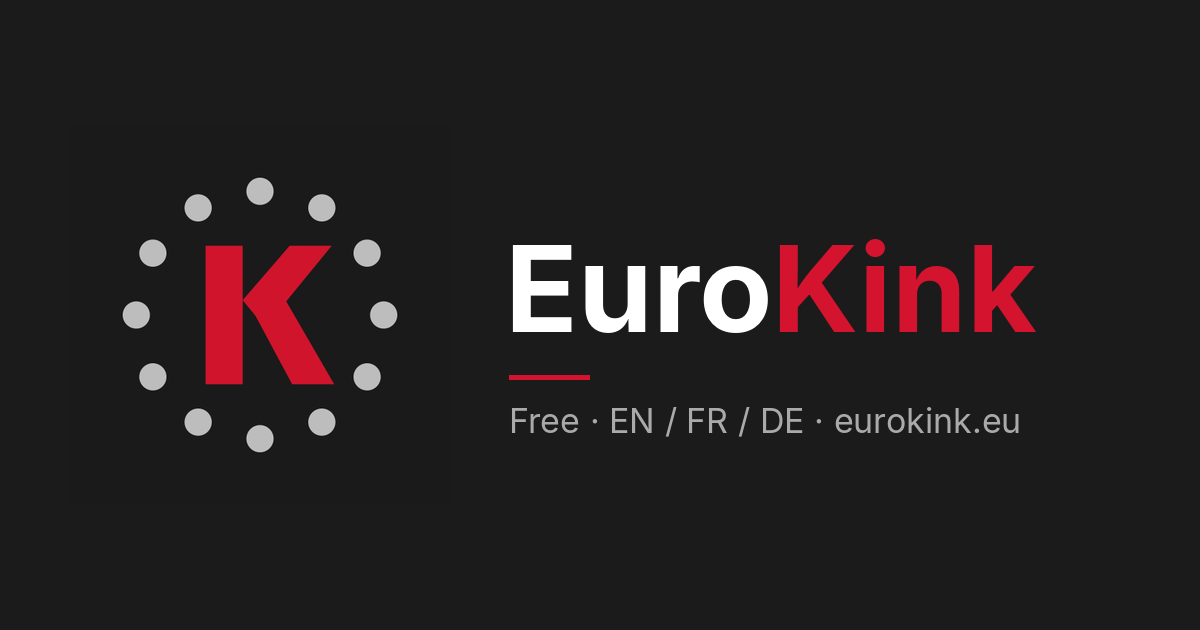
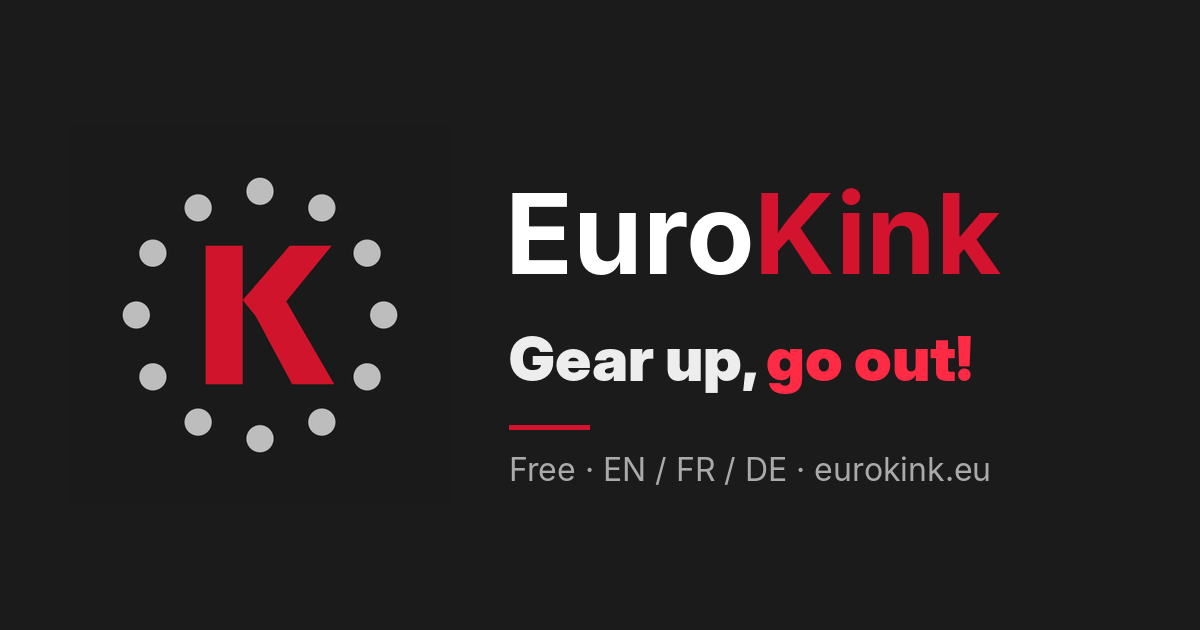
v0.50.2 : slogan « Gear up, go out! » (accueil, aperçus, manifeste, README)
Claude-Session: https://claude.ai/code/session_018Ux13vUQ72CsnVpyvbnhZ3

Changed region(s): [[0.4008, 0.3016, 0.8633, 0.6937], [0.4008, 0.7238, 0.6475, 0.7841], [0.6783, 0.7238, 0.8325, 0.7841]]

diff --git a/index.html b/index.html
@@ -12,17 +12,17 @@
   <meta name="mobile-web-app-capable" content="yes">
   <meta name="apple-mobile-web-app-status-bar-style" content="black-translucent">
   <meta name="apple-mobile-web-app-title" content="EuroKink">
-  <meta name="description" content="Toutes les soirées fetish en France et en Europe.">
+  <meta name="description" content="Gear up, go out! Toutes les soirées fetish en France et en Europe.">
   <title>EuroKink</title>
   <meta property="og:type" content="website">
   <meta property="og:site_name" content="EuroKink">
   <meta property="og:title" content="EuroKink">
-  <meta property="og:description" content="Events, map and community across Europe. Free app in English, French and German.">
+  <meta property="og:description" content="Gear up, go out! Events, map and community across Europe. Free app in English, French and German.">
   <meta property="og:url" content="https://eurokink.eu/">
   <meta property="og:image" content="https://eurokink.eu/icons/og-image.png">
   <meta property="og:image:width" content="1200">
   <meta property="og:image:height" content="630">
-  <meta property="og:image:alt" content="EuroKink">
+  <meta property="og:image:alt" content="EuroKink · Gear up, go out!">
   <meta name="twitter:card" content="summary_large_image">
   <link rel="manifest" href="manifest.webmanifest">
   <link rel="icon" href="icons/favicon.svg" type="image/svg+xml">
@@ -30,13 +30,13 @@
   <link rel="apple-touch-icon" href="icons/apple-touch-icon.png">
   <link rel="preload" href="fonts/Inter-Regular.woff" as="font" type="font/woff" crossorigin>
   <link rel="preload" href="fonts/InterDisplay-Black.woff" as="font" type="font/woff" crossorigin>
-  <link rel="stylesheet" href="css/styles.css?v=0.50.1">
+  <link rel="stylesheet" href="css/styles.css?v=0.50.2">
 </head>
 <body>
   <main id="view" aria-live="polite"></main>
   <nav id="nav" aria-label="Navigation principale" hidden></nav>
   <div id="toast" role="status" aria-live="polite"></div>
   <noscript><p style="padding:24px">EuroKink a besoin de JavaScript pour fonctionner.</p></noscript>
-  <script type="module" src="js/app.js?v=0.50.1"></script>
+  <script type="module" src="js/app.js?v=0.50.2"></script>
 </body>
 </html>

diff --git a/js/app.js b/js/app.js
@@ -7,7 +7,7 @@ import { mountGame } from './game.js';
 import { mountMemory } from './memory.js';
 import { LANG, LOCALE, LANGS, setLang, startI18n, t } from './i18n.js';
 
-const VERSION = '0.50.1';
+const VERSION = '0.50.2';
 const BRAND = 'EuroKink™';   // passer à ® une fois la marque déposée (INPI / EUIPO)
 const COPYRIGHT_YEAR = 2026;
 const STORE_KEY = 'ek.state.v1';
@@ -237,6 +237,7 @@ const empty = (msg) => `<div class="empty">${msg}</div>`;
 function viewWelcome() {
   return `<section class="gate">
     <div class="gate-logo">${LOGO_MARK}${WORDMARK}</div>
+    <p class="gate-slogan" data-no-i18n>Gear up, <span>go out!</span></p>
     <p class="gate-tag">Toutes les soirées fetish, partout en Europe.</p>
     ${inviteBanner()}
     <div class="card gate-card">

diff --git a/sw.js b/sw.js
@@ -1,5 +1,5 @@
 // EuroKink — service worker : appli disponible hors ligne, mises à jour récupérées en priorité
-const CACHE = 'eurokink-v0.50.1';
+const CACHE = 'eurokink-v0.50.2';
 const FILES = [
   './', './index.html', './manifest.webmanifest', './css/styles.css', './js/app.js', './js/data.js', './js/legal.js', './js/map.js', './js/game.js', './js/memory.js', './js/europe.js', './js/i18n.js', './js/supabase.js',
   './fonts/Inter-Regular.woff', './fonts/Inter-SemiBold.woff', './fonts/Inter-Bold.woff', './fonts/InterDisplay-Black.woff',

diff --git a/css/styles.css b/css/styles.css
@@ -829,3 +829,5 @@ body.kb .sys-note { padding-bottom: 12px; }
 .org-public .org-socials { flex-direction: row; width: 100%; }
 .org-about { border-left: 3px solid var(--red); }
 .org-about p { margin: 0; font-size: 16px; line-height: 1.6; color: var(--text); white-space: pre-line; }
+.gate-slogan { margin: 4px 0 0; text-align: center; font-family: 'Inter Display', Inter, system-ui, sans-serif; font-weight: 900; font-size: 30px; letter-spacing: -0.5px; color: var(--text); }
+.gate-slogan span { color: var(--red-text, #FF2A44); }

diff --git a/README.md b/README.md
@@ -1,6 +1,6 @@
 # EuroKink — appli web (PWA)
 
-Toutes les soirées fetish, en France puis en Europe.
+**Gear up, go out!** Toutes les soirées fetish, en France puis en Europe.
 
 **Version 0.4.0, étape 2** : les soirées viennent de la base **Supabase** (hébergée à Paris). Sans compte, on peut tout consulter et garder ses favoris sur l'appareil. Avec un compte (e-mail + mot de passe, confirmation par e-mail), favoris, rappels, alertes, sorties, présences et badges sont enregistrés en ligne. Les soirées actuelles sont **fictives** (phase de test).
 
